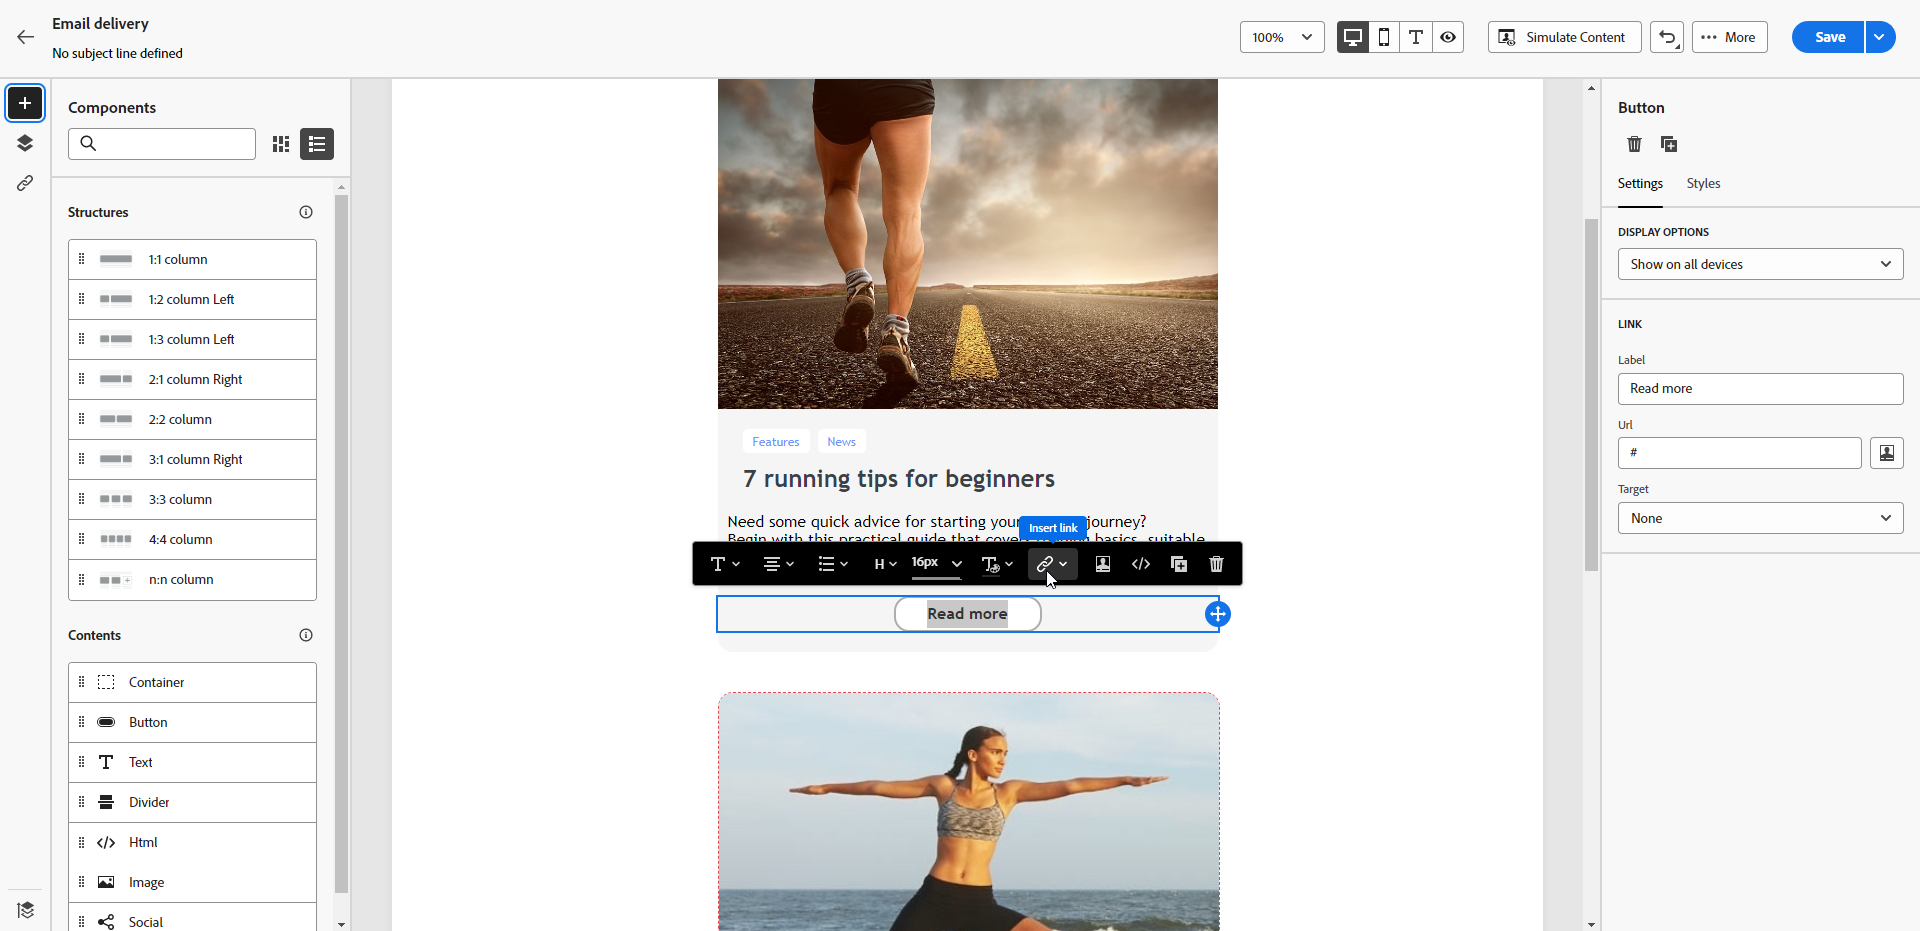
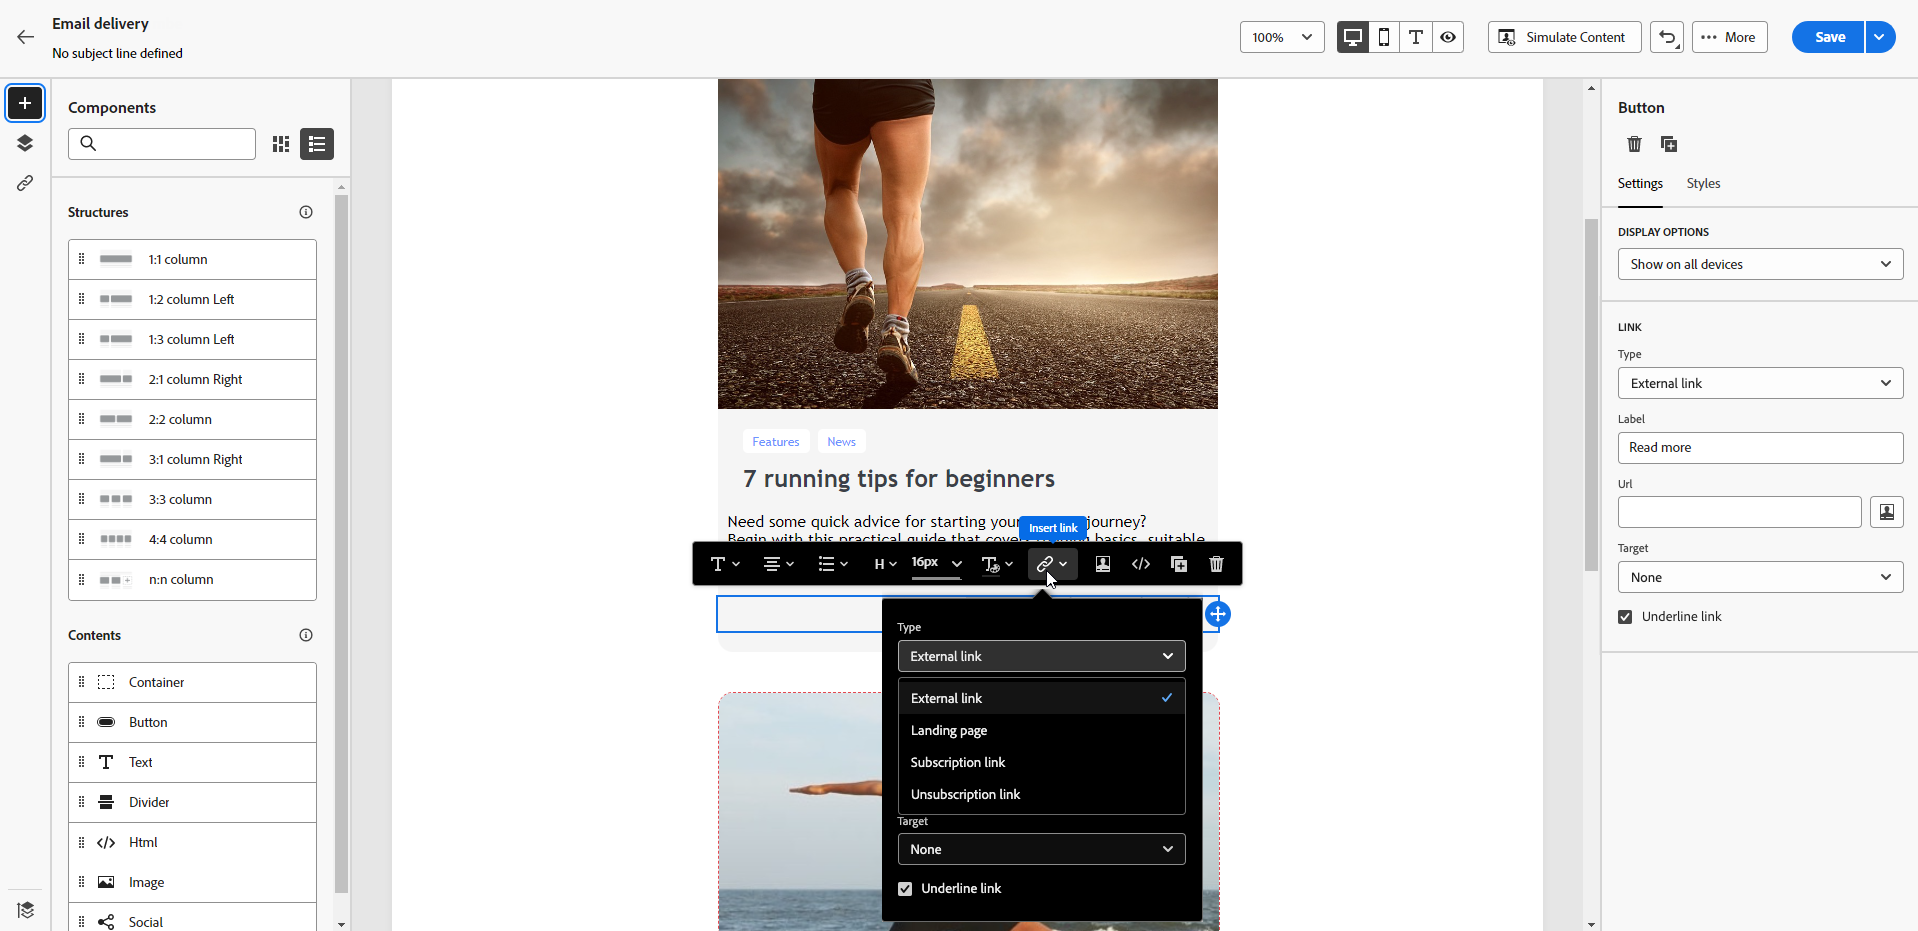
DOCAC-1035, DOCAC-10210, DOCAC-10176, DOCAC-9996, DOCAC-9994, DOCAC-9993

diff --git a/help/v8/landing-pages/lp-content.md b/help/v8/landing-pages/lp-content.md
@@ -24,7 +24,11 @@ The content of the **[!UICONTROL Confirmation]**, **[!UICONTROL Error]** and **[
 
 You can also define [styles for your landing page](#lp-form-styles).
 
-To further design your landing page content, you can use the same components as for an email. [Learn more](../email/content-components.md#add-content-components)
+To further design your landing page content:
+
+* You can use the same components as the ones used to design an email. [Learn more](../email/content-components.md#add-content-components)
+
+* You can add conditional content to your landing pages, in the same way as you would do for an email. [Learn more](../personalization/conditions.md#condition-condition-builder)
 
 ## Use the form component {#use-form-component}
 
@@ -48,7 +52,7 @@ To define specific content that will enable users to select and submit their cho
 
 1. Select it. The **[!UICONTROL Form content]** tab displays in the right palette to let you edit the different fields of the form.
 
-    ![](assets/lp-form-component.png)
+    ![](assets/lp-form-component.png){zoomable="yes"}
 
     >[!NOTE]
     >
@@ -56,7 +60,7 @@ To define specific content that will enable users to select and submit their cho
 
 1. Expand the first text field if any, or add one using the **[!UICONTROL Add]** button. From the **[!UICONTROL Text field 1]** section, you can edit the field type, the database field to be updated, the label, and the text that will be displayed inside the field before users enter a value.
 
-    ![](assets/lp-form-text-field.png)
+    ![](assets/lp-form-text-field.png){zoomable="yes"}
 
 1. Check the **[!UICONTROL Make form field mandatory]** option if needed. In that case, the landing page can only be submitted if the user has filled in this field.
 
@@ -66,9 +70,9 @@ To define specific content that will enable users to select and submit their cho
 
 1. Expand the checkbox if any, or add one using the **[!UICONTROL Add]** button. Select if that checkbox should update a service or a field from the database.
 
-    ![](assets/lp-form-checkbox.png)
+    ![](assets/lp-form-checkbox.png){zoomable="yes"}
 
-    If you select **[!UICONTROL Subscription & services]**, select a service from the list, and choose between the two options below:
+    If you select **[!UICONTROL Subscription & services]**, select a [service](../audience/manage-services.md) from the list, and choose between the two options below:
 
     * **[!UICONTROL Subscribe in if checked]**: Users need to check the box to consent (opt-in).
     * **[!UICONTROL Unsubscribe if checked]**: Users need to check the box to remove their consent (opt-out).
@@ -81,32 +85,42 @@ To define specific content that will enable users to select and submit their cho
 
 1. You can delete and add as many fields (such as text fields, radio buttons, checkboxes, dropdown list, etc.) as needed.
 
-1. Once all the fields added or updated, click **[!UICONTROL Call to action]** to expand the corresponding section. It enables you to define the behavior of the button in the **[!UICONTROL Form]** component.
+1. Once all the fields added or updated, click **[!UICONTROL Call to action]** to expand the corresponding section. It enables you to define the behavior of the button in the **[!UICONTROL Form]** component. [Learn how](#define-actions-on-form-submission)
 
-    ![](assets/lp-call-to-action.png)
+    ![](assets/lp-call-to-action.png){zoomable="yes"}
+
+1. Save your content to go back to the [landing page properties](create-lp.md#create-landing-page).
+
+### Define actions on form submission {#define-actions-on-form-submission}
 
 1. Define what will happen upon clicking the button:
 
-    * **[!UICONTROL Confirmation page]**: The user will be redirected to the **[!UICONTROL Confirmation]** page set for the current landing page.
+    * **[!UICONTROL Confirmation page]**: By default, the user will be redirected to the **[!UICONTROL Confirmation]** page set for the current landing page.
 
     * **[!UICONTROL Redirect URL]**: Enter the URL of the page the users will be redirected to.
 
+    * **[!UICONTROL Landing page]**: You can select another landing page for users to be redirected to. Make sure you configure the selected landing page accordingly.
+
 1. If you want to make additional updates upon submitting the form, select **[!UICONTROL Additional updates]**, and select the item you want to update:
-    * A subscription service - in that case, define if you want to opt in or opt out users upon submitting the form.
+    * A subscription [service](../audience/manage-services.md) - in that case, define if you want to opt in or opt out users upon submitting the form. When designing an email, if you define a **[!UICONTROL Landing page]**-type link to this landing page, the selected service will be automatically used. [Learn more on inserting links](../email/message-tracking.md)
 
         >[!NOTE]
         >
-        >Do not select this option if you would like to use several services with the landing page.
+        >If you want to use several services with this landing page, use the **[!UICONTROL Service from URL]** option described below.
 
-    * The email addressed used when filling the form.
+    * The channel - the email addressed used when filling the form.
     * All channels - upon submitting the form, users will be opted in or out (depending on the selected template) to/from all communications from your brand on all channels.
     * A field from the database - select a field from the attributes list, and define if it should be set to True or False upon submitting the form.
 
-    ![](assets/lp-form-additionnal-updates.png)
+    ![](assets/lp-form-additionnal-updates.png){zoomable="yes"}
 
-1. Use the **[!UICONTROL From URL]** option to allow the landing page to be used for several services. If you select this option, you must reference the landing page when configuring the services. [Learn more](../audience/manage-services.md#create-service) <!--+select the correct option i.e. Landing page in the email when inserting a link?? Select Specific service to link the landing page to a single service. vs Select Specified service in the URL option to allow the landing page to be used for several services.-->
+1. Select the **[!UICONTROL Service from URL]** option to allow the landing page to be used for several services, making it dynamic. Define if you want to opt in or opt out users upon submitting the form.
 
-1. Save your content to go back to the [landing page properties](create-lp.md#create-landing-page).
+    ![](assets/lp-form-service-from-url.png){zoomable="yes"}
+
+    When designing an email, if you define a **[!UICONTROL Landing page]**-type link to this landing page, you will be able to select any service from the list. You can then select other services when defining other links to this landing page. [Learn more on inserting links](../email/message-tracking.md)
+
+    ![](assets/email-link-to-landing-page.png){zoomable="yes"}
 
 ## Define landing page form styles {#lp-form-styles}
 
@@ -114,17 +128,17 @@ To define specific content that will enable users to select and submit their cho
 
 1. The **[!UICONTROL Text field]** section is expanded by default. It enables you to edit the appearance of the text fields, such as the label font, the position of the label, the field background color, or the field border.
 
-    ![](assets/lp-text-styles.png)
+    ![](assets/lp-text-styles.png){zoomable="yes"}
 
 1. Expand the **[!UICONTROL Checkbox]** section to define the appearance of the checkboxes and corresponding text. For example, you can adjust the font family and size, or the checkbox border color.
 
-    ![](assets/lp-checkbox-style.png)
+    ![](assets/lp-checkbox-style.png){zoomable="yes"}
 
 1. Expand and edit any other section corresponding to other fields you may have added (radio button, dropdown list, date and time, etc.) to your form.
 
 1. Expand the **[!UICONTROL Call to action]** section to modify the appearance of the button in the component form. For example, you can change the font, add a border, edit the label color on hover, or adjust the alignment of the button.
 
-    ![](assets/lp-call-to-action-style.png)
+    ![](assets/lp-call-to-action-style.png){zoomable="yes"}
 
     You can preview some of your settings such as button label color on hover by using the **[!UICONTROL Simulate content]** button. [Learn more](create-lp.md#test-landing-page)
 

diff --git a/help/v8/landing-pages/create-lp.md b/help/v8/landing-pages/create-lp.md
@@ -104,7 +104,7 @@ To create a landing page, follow these steps:
 
     <!--* The **[!UICONTROL Skip preloading if no ID]** option must be selected if you do not wish to update profiles. In this case, each profile entered will be added to the database after approval of the form. This option is used, for example, when the form is posted on a website.-->
 
-    * The **[!UICONTROL Authorize absence of ID]** option allows any visitor to access the landing page. Unselecting this option prevents anonymous visitors to use it, meaning that only identified users can access and/or<!--cannot access the LP or submit the form?--> submit the form.
+    * The **[!UICONTROL Authorize absence of ID]** option allows any visitor to access the landing page. Unselecting this option prevents anonymous visitors to use it, meaning that only identified users can access and submit the form.
     
         >[!NOTE]
         >
@@ -114,11 +114,15 @@ To create a landing page, follow these steps:
 
     ![](assets/lp-pages.png){zoomable="yes"}
 
-1. The **[!UICONTROL Update the preloaded record]** option is selected by default. It enables to update the profiles stored in the database via the landing page. The preloading box lets you indicate how to find the record to be updated in the database. 
+1. In the **[!UICONTROL Storage]** section, the **[!UICONTROL Update the preloaded record]** option is selected by default. It enables to update the profiles stored in the database via the landing page. The preloading box lets you indicate how to find the record to be updated in the database. 
     
     You can also choose from the fields in the current context of the landing page, those that will be used to find the corresponding profile in the database. To do so, unselect the **[!UICONTROL Update the preloaded record]** option and check the desired fields under **[!UICONTROL Reconciliation options]**.
 
     ![](assets/lp-storage.png){zoomable="yes"}
+
+1. Create **[!UICONTROL Additional data]** to store internal data when the landing page is being submitted. This data is not visible to users who visit the page. Only constant values are taken into account.
+
+    ![](assets/lp-additional-data.png){zoomable="yes"}
 
 1. You can define a start date and an end date for your landing page. Select **[!UICONTROL Enable scheduling]** and set the dates.
 
@@ -167,6 +171,8 @@ To test your landing page, follow these steps:
 1. From the **[!UICONTROL Simulate]** screen, select one or more test profiles.
 
     The steps to select test profiles are the same as when testing a message. They are detailed in the [Preview and test](../preview-test/preview-test.md) section.
+
+1. When testing a dynamic landing page (with the **[!UICONTROL Service from URL]** option selected - [learn more](../landing-pages/create-lp.md#define-actions-on-form-submission)
 
 1. Select **[!UICONTROL Open preview]** to test your landing page.
 

diff --git a/help/v8/email/message-tracking.md b/help/v8/email/message-tracking.md
@@ -20,7 +20,25 @@ To insert links into your email content, follow the steps below:
 
 1. Select an element and click **[!UICONTROL Insert link]** from the contextual toolbar.
 
+1. Choose the type of link you want to create:
+
     ![](assets/message-tracking-insert-link.png){zoomable="yes"}
+
+    * **[!UICONTROL External link]**: Insert a link to an external URL.
+
+    * **[!UICONTROL Landing page]**: Insert a link to a landing page. If you select a dynamic landing page (with the **[!UICONTROL Service from URL]** option selected), you can select any service from the list. [Learn more ](../landing-pages/create-lp.md#define-actions-on-form-submission)
+
+        ![](assets/email-link-to-landing-page.png){zoomable="yes"}
+
+    * **[!UICONTROL Subscription link]**: Insert a link to a service. When users click the link, they will be directed to the subscription landing page referenced in the selected service. [Learn more ](../audience/manage-services.md#create-service)
+
+        ![](assets/service-create-default-lp-link.png){zoomable="yes"}
+
+    * **[!UICONTROL Unsubscription link]**: Insert a link to a service. When subscribers click the link, they will be directed to the unsubscription landing page referenced in the selected service. [Learn more ](../audience/manage-services.md#create-service)
+
+    <!--* **[!UICONTROL Mirror page]**: Add a link to display the email content in a web browser. [Learn more]-->
+
+1. Enter the desired URL in the corresponding field, or select a landing page or a service, and define the link settings and styles. 
 
 1. Add a **[!UICONTROL Label]** and a **[!UICONTROL Link]**.
 

diff --git a/help/v8/audience/manage-services.md b/help/v8/audience/manage-services.md
@@ -80,9 +80,15 @@ To create a subscription service, follow the steps below.
 
 1. Click **[!UICONTROL Save and review]**. The new service is added to the **[!UICONTROL Subscription services]** list.
 
-1. You can also select the default subscription and unsubscription landing pages associated with this service. With this option, users can subscribe to or unsubscribe from the service upon submitting the selected landing page form.<!--To do so, you must have selected the **[!UICONTROL From URL]** option in the corresponding LP? This is what ACS doc says. Explain what it does: so when you select a LP in the email, you can select the service?? If you don't select this option in the LP content, can you reference the same LP in several services?-->
+1. You can also select the default subscription and unsubscription landing pages associated with this service.
 
     ![](assets/service-create-default-lp.png){zoomable="yes"}
+
+    Once done, when [inserting a link](../email/message-tracking.md) in an email, select **[!UICONTROL Subscription link]** or **[!UICONTROL Unsubscription link]**. Upon clicking that link, users will be directed to the subscription or unsubscription landing page referenced in the service. <!--After submitting the form, they will be subscribed to / unsubscribed from the service.-->
+
+    ![](assets/service-create-default-lp-link.png){zoomable="yes"}
+
+1. Save and review your changes.
 
 You can now:
 
